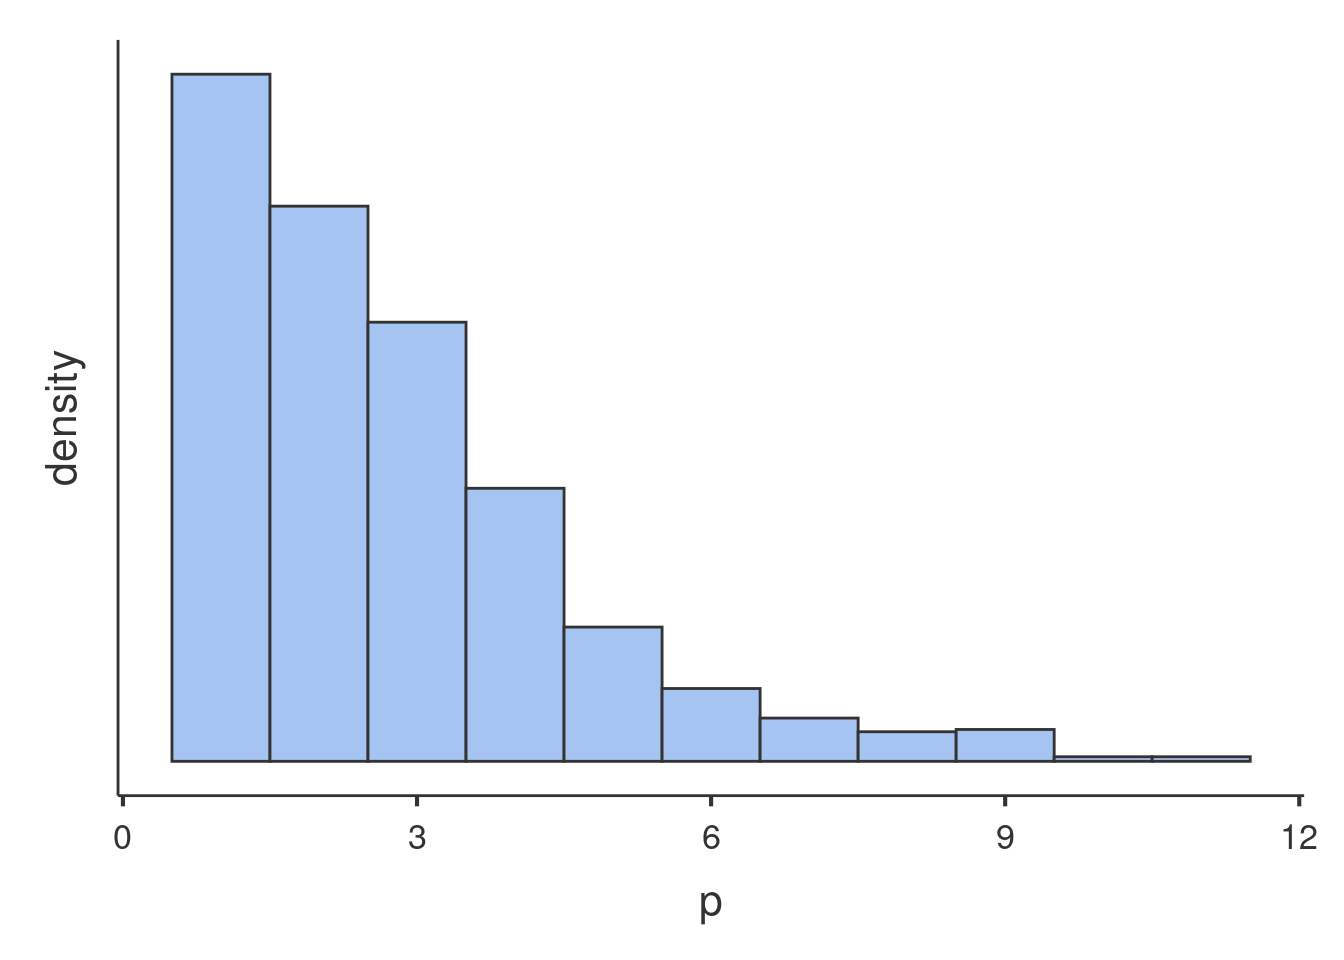
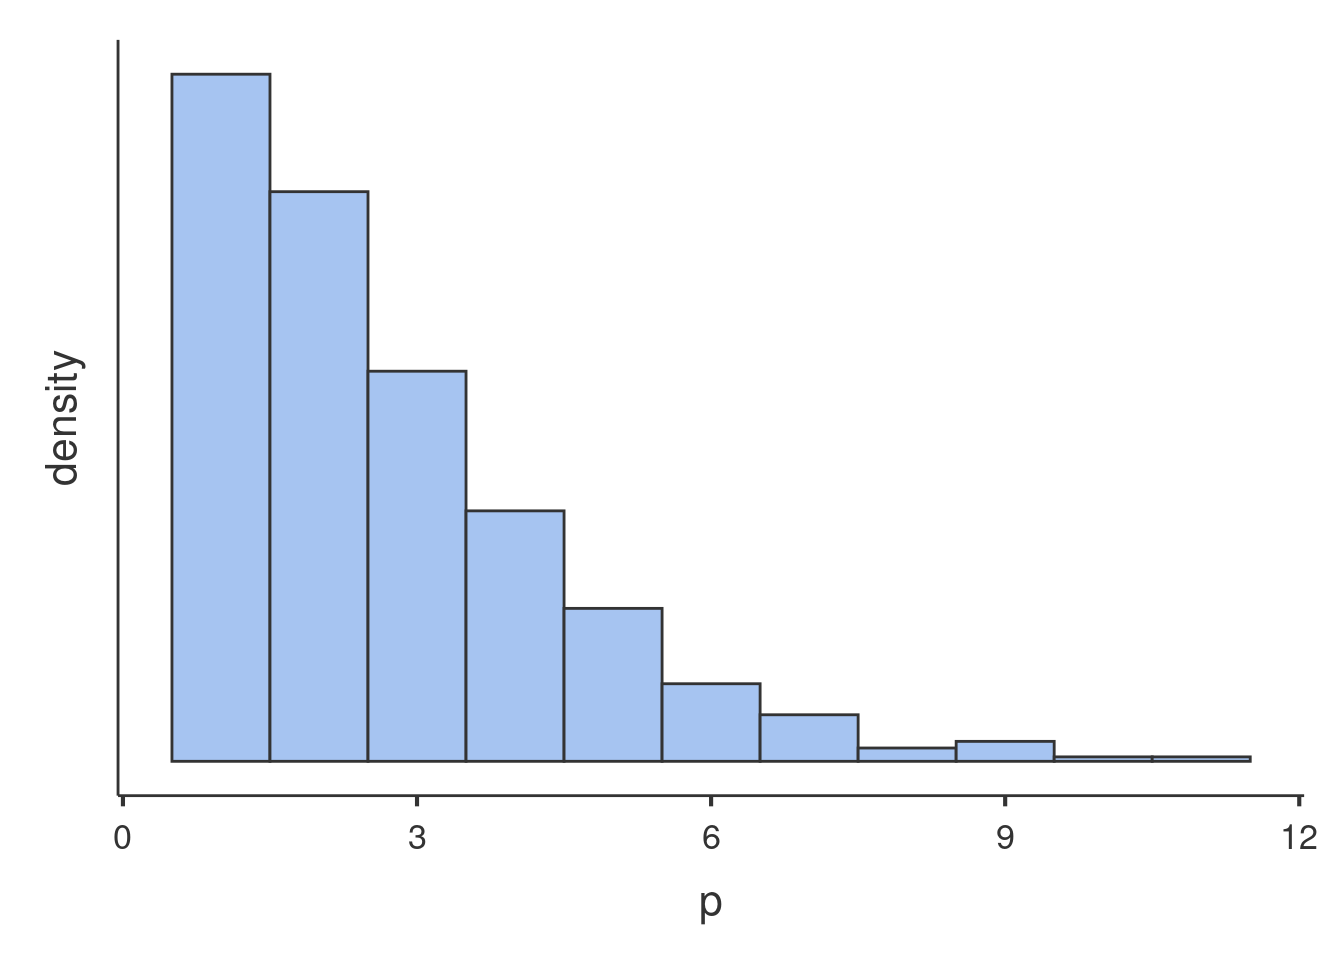
updates

diff --git a/docs/rpackage/reference/manymodels.html b/docs/rpackage/reference/manymodels.html
@@ -1,5 +1,5 @@
 <!DOCTYPE html>
-<!-- Generated by pkgdown: do not edit by hand --><html lang="en"><head><meta http-equiv="Content-Type" content="text/html; charset=UTF-8"><meta charset="utf-8"><meta http-equiv="X-UA-Compatible" content="IE=edge"><meta name="viewport" content="width=device-width, initial-scale=1.0"><title>Many GMixed Models Data — manymodels • GAMLj3</title><!-- jquery --><script src="https://cdnjs.cloudflare.com/ajax/libs/jquery/3.4.1/jquery.min.js" integrity="sha256-CSXorXvZcTkaix6Yvo6HppcZGetbYMGWSFlBw8HfCJo=" crossorigin="anonymous"></script><!-- Bootstrap --><link rel="stylesheet" href="https://cdnjs.cloudflare.com/ajax/libs/twitter-bootstrap/3.4.1/css/bootstrap.min.css" integrity="sha256-bZLfwXAP04zRMK2BjiO8iu9pf4FbLqX6zitd+tIvLhE=" crossorigin="anonymous"><script src="https://cdnjs.cloudflare.com/ajax/libs/twitter-bootstrap/3.4.1/js/bootstrap.min.js" integrity="sha256-nuL8/2cJ5NDSSwnKD8VqreErSWHtnEP9E7AySL+1ev4=" crossorigin="anonymous"></script><!-- bootstrap-toc --><link rel="stylesheet" href="../bootstrap-toc.css"><script src="../bootstrap-toc.js"></script><!-- Font Awesome icons --><link rel="stylesheet" href="https://cdnjs.cloudflare.com/ajax/libs/font-awesome/5.12.1/css/all.min.css" integrity="sha256-mmgLkCYLUQbXn0B1SRqzHar6dCnv9oZFPEC1g1cwlkk=" crossorigin="anonymous"><link rel="stylesheet" href="https://cdnjs.cloudflare.com/ajax/libs/font-awesome/5.12.1/css/v4-shims.min.css" integrity="sha256-wZjR52fzng1pJHwx4aV2AO3yyTOXrcDW7jBpJtTwVxw=" crossorigin="anonymous"><!-- clipboard.js --><script src="https://cdnjs.cloudflare.com/ajax/libs/clipboard.js/2.0.6/clipboard.min.js" integrity="sha256-inc5kl9MA1hkeYUt+EC3BhlIgyp/2jDIyBLS6k3UxPI=" crossorigin="anonymous"></script><!-- headroom.js --><script src="https://cdnjs.cloudflare.com/ajax/libs/headroom/0.11.0/headroom.min.js" integrity="sha256-AsUX4SJE1+yuDu5+mAVzJbuYNPHj/WroHuZ8Ir/CkE0=" crossorigin="anonymous"></script><script src="https://cdnjs.cloudflare.com/ajax/libs/headroom/0.11.0/jQuery.headroom.min.js" integrity="sha256-ZX/yNShbjqsohH1k95liqY9Gd8uOiE1S4vZc+9KQ1K4=" crossorigin="anonymous"></script><!-- pkgdown --><link href="../pkgdown.css" rel="stylesheet"><script src="../pkgdown.js"></script><meta property="og:title" content="Many GMixed Models Data — manymodels"><meta property="og:description" content="Generated data to test different types of linear models. The variables can be used as:      
+<!-- Generated by pkgdown: do not edit by hand --><html lang="en"><head><meta http-equiv="Content-Type" content="text/html; charset=UTF-8"><meta charset="utf-8"><meta http-equiv="X-UA-Compatible" content="IE=edge"><meta name="viewport" content="width=device-width, initial-scale=1.0"><title>Many Models Data — manymodels • GAMLj3</title><!-- jquery --><script src="https://cdnjs.cloudflare.com/ajax/libs/jquery/3.4.1/jquery.min.js" integrity="sha256-CSXorXvZcTkaix6Yvo6HppcZGetbYMGWSFlBw8HfCJo=" crossorigin="anonymous"></script><!-- Bootstrap --><link rel="stylesheet" href="https://cdnjs.cloudflare.com/ajax/libs/twitter-bootstrap/3.4.1/css/bootstrap.min.css" integrity="sha256-bZLfwXAP04zRMK2BjiO8iu9pf4FbLqX6zitd+tIvLhE=" crossorigin="anonymous"><script src="https://cdnjs.cloudflare.com/ajax/libs/twitter-bootstrap/3.4.1/js/bootstrap.min.js" integrity="sha256-nuL8/2cJ5NDSSwnKD8VqreErSWHtnEP9E7AySL+1ev4=" crossorigin="anonymous"></script><!-- bootstrap-toc --><link rel="stylesheet" href="../bootstrap-toc.css"><script src="../bootstrap-toc.js"></script><!-- Font Awesome icons --><link rel="stylesheet" href="https://cdnjs.cloudflare.com/ajax/libs/font-awesome/5.12.1/css/all.min.css" integrity="sha256-mmgLkCYLUQbXn0B1SRqzHar6dCnv9oZFPEC1g1cwlkk=" crossorigin="anonymous"><link rel="stylesheet" href="https://cdnjs.cloudflare.com/ajax/libs/font-awesome/5.12.1/css/v4-shims.min.css" integrity="sha256-wZjR52fzng1pJHwx4aV2AO3yyTOXrcDW7jBpJtTwVxw=" crossorigin="anonymous"><!-- clipboard.js --><script src="https://cdnjs.cloudflare.com/ajax/libs/clipboard.js/2.0.6/clipboard.min.js" integrity="sha256-inc5kl9MA1hkeYUt+EC3BhlIgyp/2jDIyBLS6k3UxPI=" crossorigin="anonymous"></script><!-- headroom.js --><script src="https://cdnjs.cloudflare.com/ajax/libs/headroom/0.11.0/headroom.min.js" integrity="sha256-AsUX4SJE1+yuDu5+mAVzJbuYNPHj/WroHuZ8Ir/CkE0=" crossorigin="anonymous"></script><script src="https://cdnjs.cloudflare.com/ajax/libs/headroom/0.11.0/jQuery.headroom.min.js" integrity="sha256-ZX/yNShbjqsohH1k95liqY9Gd8uOiE1S4vZc+9KQ1K4=" crossorigin="anonymous"></script><!-- pkgdown --><link href="../pkgdown.css" rel="stylesheet"><script src="../pkgdown.js"></script><meta property="og:title" content="Many Models Data — manymodels"><meta property="og:description" content="Generated data to test linear models. The variables can be used as:      
 `x` and `z` as two continuous independent variables;      
 `cat2` and `cat3`  as categorical independent variables, with two and three groups respectively;      
 `ycont` is a continuous variable, suitable as dependent variable. 
@@ -55,13 +55,13 @@
       </header><div class="row">
   <div class="col-md-9 contents">
     <div class="page-header">
-    <h1>Many GMixed Models Data</h1>
+    <h1>Many Models Data</h1>
     
     <div class="hidden name"><code>manymodels.Rd</code></div>
     </div>
 
     <div class="ref-description">
-    <p>Generated data to test different types of linear models. The variables can be used as:</p>      
+    <p>Generated data to test linear models. The variables can be used as:</p>      
 <p>`x` and `z` as two continuous independent variables;</p>      
 <p>`cat2` and `cat3`  as categorical independent variables, with two and three groups respectively;</p>      
 <p>`ycont` is a continuous variable, suitable as dependent variable. 

diff --git a/docs/glmmixed_example2.html b/docs/glmmixed_example2.html
@@ -424,8 +424,8 @@ Generalized Linear Model with Poisson distribition may work. However, we
 can check wheather our distribution is in line with the features of the
 Poisson dist by checking its mean and variance. The Poisson distribution
 has variance equal to the mean, in fact the simulated distribution in
-the histogram has <span class="math inline">\(\bar{x}=1.637\)</span> and
-<span class="math inline">\(s^2=1.617\)</span>. The <code>art</code>
+the histogram has <span class="math inline">\(\bar{x}=1.694\)</span> and
+<span class="math inline">\(s^2=1.652\)</span>. The <code>art</code>
 variable distribution has <span
 class="math inline">\(\bar{x}=1.693\)</span> and <span
 class="math inline">\(s^2=3.71\)</span>, with a ratio variance/mean of

diff --git a/docs/rpackage/reference/index.html b/docs/rpackage/reference/index.html
@@ -108,7 +108,7 @@
       </tr><tr><td>
           <p><code><a href="manymodels.html">manymodels</a></code> </p>
         </td>
-        <td><p>Many GMixed Models Data</p></td>
+        <td><p>Many Models Data</p></td>
       </tr><tr><td>
           <p><code><a href="plot.html">plot(<i>&lt;gamlj&gt;</i>)</a></code> </p>
         </td>
